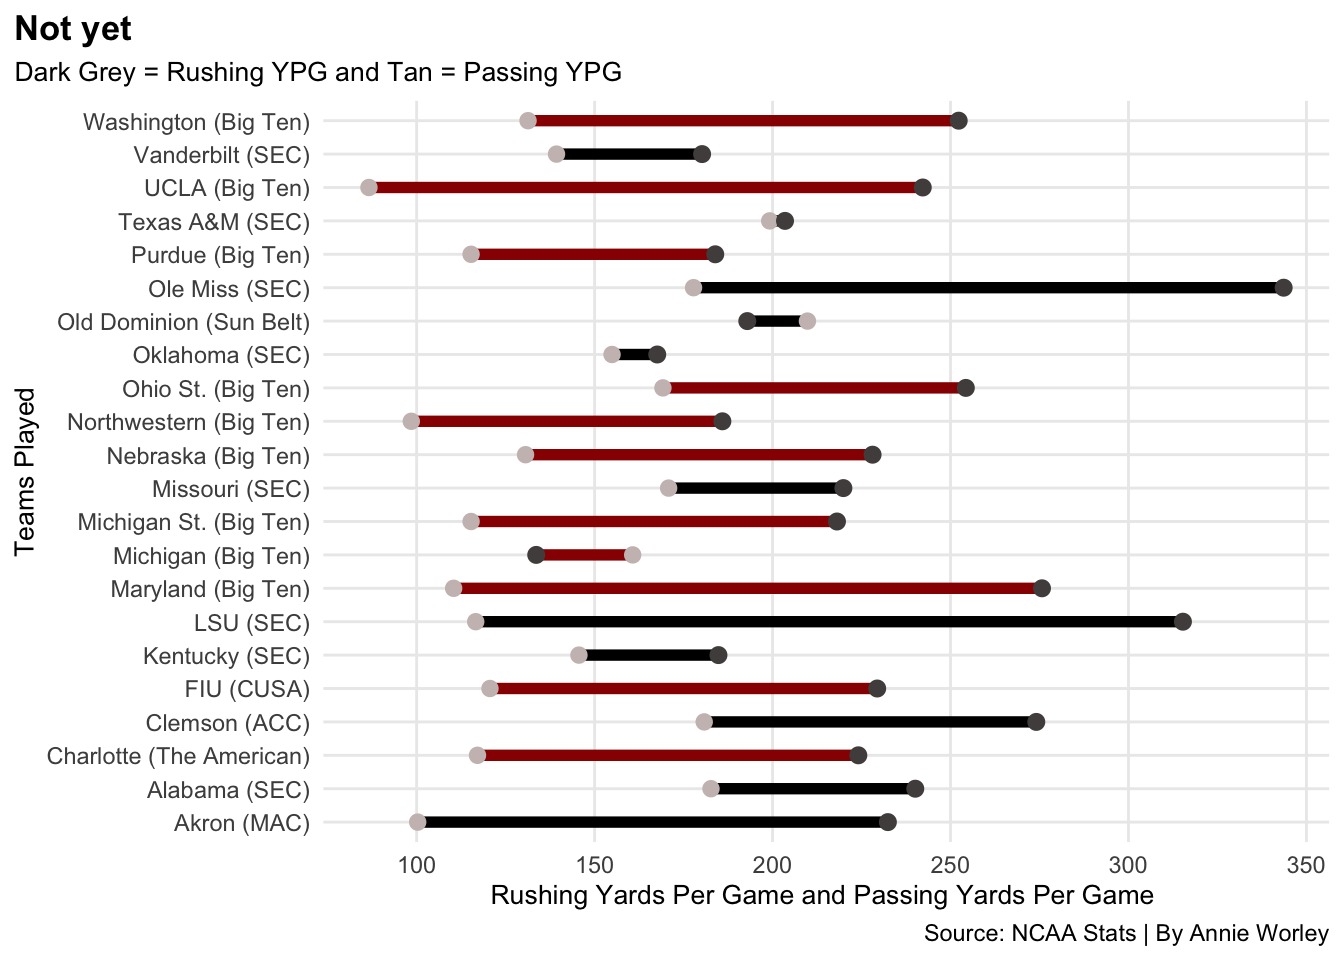
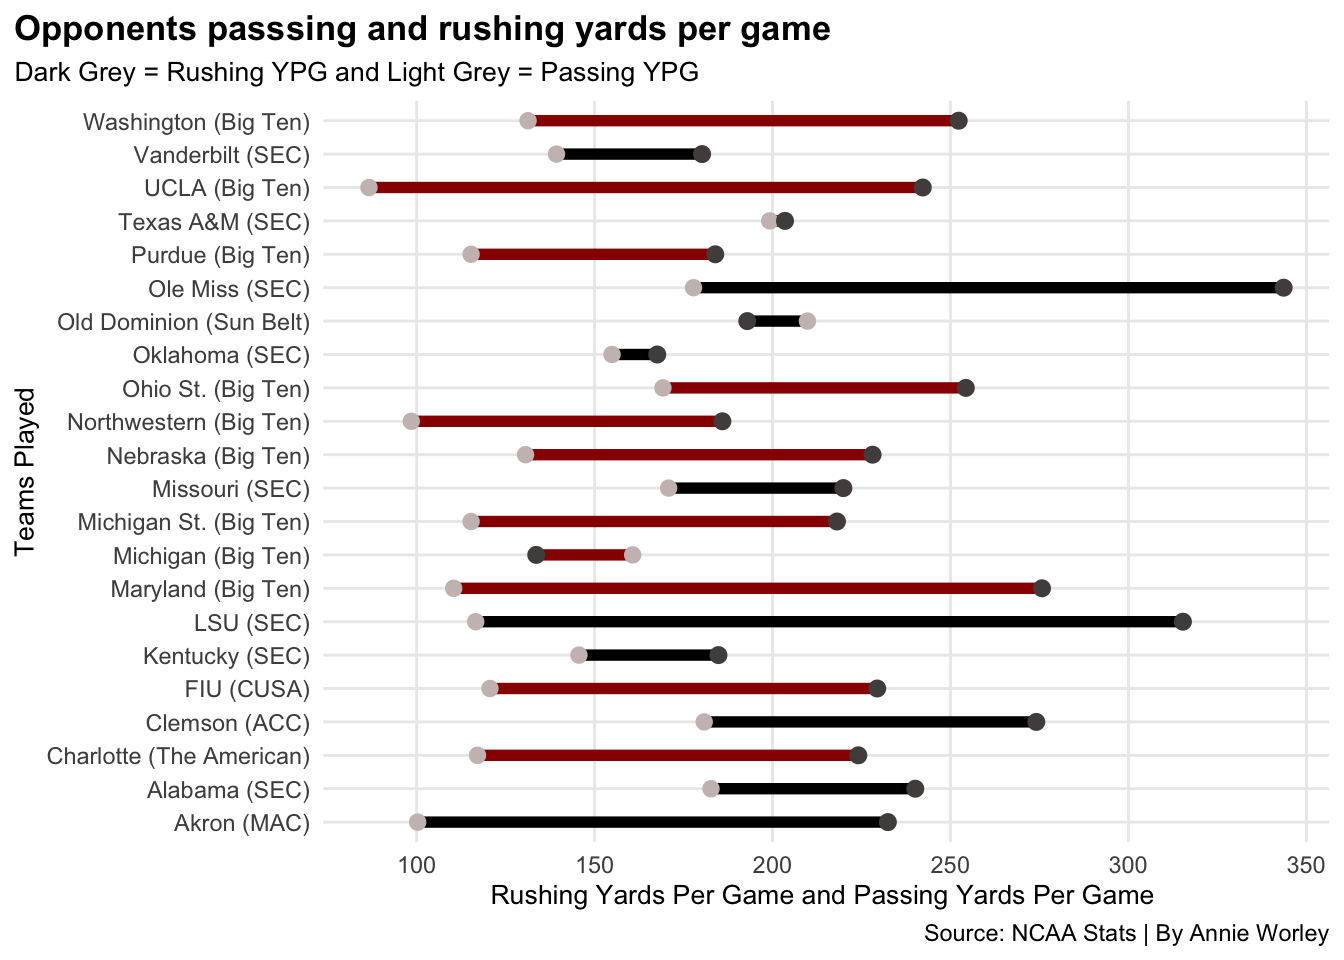
edits

Changed region(s): [[0.0, 0.0, 0.625, 0.0938]]

diff --git a/posts/college-football-playoffs-2024/index.html b/posts/college-football-playoffs-2024/index.html
@@ -193,7 +193,11 @@ pre > code.sourceCode > span > a:first-child::before { text-decoration: underlin
 
 
 
-<p>Do teams in the playoff contention deserve to be considered over other teams? Does a team like South Carolina deserve to be in the playoffs over Indiana. Looking at their performance and teams they played.&nbsp;</p>
+<p>Do teams in the playoff contention deserve to be considered over other teams? Does a team like South Carolina deserve to be in the playoffs over Indiana.</p>
+<p>Does one team belong over the other looking into their performance and the quality of teams they played.&nbsp;</p>
+<p>The playoffs are expanded to 12 teams for the first time this season. At the same time there has been a lot of consolidation among the conferences and now the have the power 4 conferences, each consisting of many teams. This leads to many unbalanced schedules and difficulty to judge teams based off their records.</p>
+<p>This raises a question about the quality of teams wins and who really is better then everyone else.</p>
+<p>Question: Is there large difference between the defenses South Carolina faced being in the SEC and defenses Indiana faced being in the Big Ten, plus their non conference games?</p>
 <div class="cell" data-messasge="false">
 <details class="code-fold">
 <summary>Code</summary>
@@ -215,7 +219,7 @@ pre > code.sourceCode > span > a:first-child::before { text-decoration: underlin
 <span id="cb1-16"><a href="#cb1-16" aria-hidden="true" tabindex="-1"></a><span class="fu">labs</span>(</span>
 <span id="cb1-17"><a href="#cb1-17" aria-hidden="true" tabindex="-1"></a>    <span class="at">x=</span><span class="st">"Games Played"</span>, </span>
 <span id="cb1-18"><a href="#cb1-18" aria-hidden="true" tabindex="-1"></a>    <span class="at">y=</span><span class="st">"Average Yards Given Up By Defense"</span>, </span>
-<span id="cb1-19"><a href="#cb1-19" aria-hidden="true" tabindex="-1"></a>    <span class="at">title=</span><span class="st">"Quality of the defenses on each team's schedules"</span>, </span>
+<span id="cb1-19"><a href="#cb1-19" aria-hidden="true" tabindex="-1"></a>    <span class="at">title=</span><span class="st">"Comparsion of average yards given up by each teams opponent"</span>, </span>
 <span id="cb1-20"><a href="#cb1-20" aria-hidden="true" tabindex="-1"></a>    <span class="at">subtitle=</span><span class="st">"Bigger spread in the defensive yards per game bewtween the Big Ten and SEC"</span>, </span>
 <span id="cb1-21"><a href="#cb1-21" aria-hidden="true" tabindex="-1"></a>    <span class="at">caption=</span><span class="st">"Source: NCAA Stats | By Annie Worley"</span>) <span class="sc">+</span></span>
 <span id="cb1-22"><a href="#cb1-22" aria-hidden="true" tabindex="-1"></a>  <span class="fu">theme</span>(</span>
@@ -233,6 +237,9 @@ pre > code.sourceCode > span > a:first-child::before { text-decoration: underlin
 </div>
 </div>
 </div>
+<p>Both teams faced some strong defenses. Indiana has a bigger spread between the best and worse defenses they faced based on the average yards they gave up.</p>
+<p>South Carolina’s graph shows there is a consistent group of teams who had stronger defenses than the teams Indiana faced.</p>
+<p>3rd down conversions are an important aspect of the offensive side of the ball. Its critical to keep drives alive and help with added scoring chances.</p>
 <div class="cell" data-messasge="false">
 <details class="code-fold">
 <summary>Code</summary>
@@ -240,7 +247,7 @@ pre > code.sourceCode > span > a:first-child::before { text-decoration: underlin
 <span id="cb2-2"><a href="#cb2-2" aria-hidden="true" tabindex="-1"></a><span class="co">#| messasge: FALSE</span></span></code><button title="Copy to Clipboard" class="code-copy-button"><i class="bi"></i></button></pre></div>
 </details>
 </div>
-<p>Text</p>
+<p>Question: How do the opponents South Carolina and Indiana faced compare in terms of 3rd down conversions?</p>
 <div class="cell" data-messasge="false">
 <details class="code-fold">
 <summary>Code</summary>
@@ -258,8 +265,8 @@ pre > code.sourceCode > span > a:first-child::before { text-decoration: underlin
 <span id="cb3-12"><a href="#cb3-12" aria-hidden="true" tabindex="-1"></a><span class="fu">labs</span>(</span>
 <span id="cb3-13"><a href="#cb3-13" aria-hidden="true" tabindex="-1"></a>    <span class="at">x=</span><span class="st">"Games Played"</span>, </span>
 <span id="cb3-14"><a href="#cb3-14" aria-hidden="true" tabindex="-1"></a>    <span class="at">y=</span><span class="st">"3rd down completion percentage"</span>, </span>
-<span id="cb3-15"><a href="#cb3-15" aria-hidden="true" tabindex="-1"></a>    <span class="at">title=</span><span class="st">"Not yet"</span>, </span>
-<span id="cb3-16"><a href="#cb3-16" aria-hidden="true" tabindex="-1"></a>    <span class="at">subtitle=</span><span class="st">"South Carolina in black and Indiana in Crimson"</span>, </span>
+<span id="cb3-15"><a href="#cb3-15" aria-hidden="true" tabindex="-1"></a>    <span class="at">title=</span><span class="st">"South Carolina consistently faced better 3rd down offenses"</span>, </span>
+<span id="cb3-16"><a href="#cb3-16" aria-hidden="true" tabindex="-1"></a>    <span class="at">subtitle=</span><span class="st">"South Carolina in black and Indiana in crimson"</span>, </span>
 <span id="cb3-17"><a href="#cb3-17" aria-hidden="true" tabindex="-1"></a>    <span class="at">caption=</span><span class="st">"Source: NCAA Stats | By Annie Worley"</span>) <span class="sc">+</span></span>
 <span id="cb3-18"><a href="#cb3-18" aria-hidden="true" tabindex="-1"></a>  <span class="fu">theme</span>(</span>
 <span id="cb3-19"><a href="#cb3-19" aria-hidden="true" tabindex="-1"></a>    <span class="at">plot.title =</span> <span class="fu">element_text</span>(<span class="at">size =</span> <span class="dv">13</span>, <span class="at">face =</span> <span class="st">"bold"</span>, <span class="at">color =</span> <span class="st">"black"</span>), </span>
@@ -276,7 +283,8 @@ pre > code.sourceCode > span > a:first-child::before { text-decoration: underlin
 </div>
 </div>
 </div>
-<p>Text</p>
+<p>Between the strongest and weakest opponents South Carolina faced, those offenses were better on 3rd down conversions then who Indiana played. Overall, all the teams South Carolina played were more proficient on 3rd down plays.</p>
+<p>Question: Did South Carolina’s or Indiana’s oppenents have better offenses?</p>
 <div class="cell" data-messasge="false">
 <details class="code-fold">
 <summary>Code</summary>
@@ -292,8 +300,8 @@ pre > code.sourceCode > span > a:first-child::before { text-decoration: underlin
 <span id="cb4-10"><a href="#cb4-10" aria-hidden="true" tabindex="-1"></a><span class="fu">labs</span>(</span>
 <span id="cb4-11"><a href="#cb4-11" aria-hidden="true" tabindex="-1"></a>    <span class="at">x=</span><span class="st">"Rushing Yards Per Game and Passing Yards Per Game "</span>, </span>
 <span id="cb4-12"><a href="#cb4-12" aria-hidden="true" tabindex="-1"></a>    <span class="at">y=</span><span class="st">"Teams Played"</span>, </span>
-<span id="cb4-13"><a href="#cb4-13" aria-hidden="true" tabindex="-1"></a>    <span class="at">title=</span><span class="st">"Not yet"</span>, </span>
-<span id="cb4-14"><a href="#cb4-14" aria-hidden="true" tabindex="-1"></a>    <span class="at">subtitle=</span><span class="st">"Dark Grey = Rushing YPG and Tan = Passing YPG"</span>,</span>
+<span id="cb4-13"><a href="#cb4-13" aria-hidden="true" tabindex="-1"></a>    <span class="at">title=</span><span class="st">"Opponents passsing and rushing yards per game"</span>, </span>
+<span id="cb4-14"><a href="#cb4-14" aria-hidden="true" tabindex="-1"></a>    <span class="at">subtitle=</span><span class="st">"Dark Grey = Rushing YPG and Light Grey = Passing YPG"</span>,</span>
 <span id="cb4-15"><a href="#cb4-15" aria-hidden="true" tabindex="-1"></a>    <span class="at">caption=</span><span class="st">"Source: NCAA Stats | By Annie Worley"</span>) <span class="sc">+</span></span>
 <span id="cb4-16"><a href="#cb4-16" aria-hidden="true" tabindex="-1"></a>  <span class="fu">theme</span>(</span>
 <span id="cb4-17"><a href="#cb4-17" aria-hidden="true" tabindex="-1"></a>    <span class="at">plot.title =</span> <span class="fu">element_text</span>(<span class="at">size =</span> <span class="dv">13</span>, <span class="at">face =</span> <span class="st">"bold"</span>, <span class="at">color =</span> <span class="st">"black"</span>), </span>
@@ -310,7 +318,9 @@ pre > code.sourceCode > span > a:first-child::before { text-decoration: underlin
 </div>
 </div>
 </div>
-<p>Text</p>
+<p>The opponents South Carolina faced averaged more rushing yards and passing yards combined then the opponents Indiana played.</p>
+<p>Both schools each faced one FCS division opponent and 11 FBS teams. Their divisional mix was similar. Indiana made it into the playoffs based on their better overall record. Indiana’s record was 10 - 1 and South Carolina’s was 9 - 3.</p>
+<p>Based on the quality of competition South Carolina faced you could argue they are a better team than Indiana, although their record isn’t as good. In general, both offenses and defenses South Carolina faced performed better then the opponents Indiana played.</p>
 <p>Comparison between total defense between the teams using a bar chart</p>
 <p>Dumbbell chart to show the passing and rushing offense between the teams</p>
 <p>Line chart to represent 3rd down conversion pct between the teams</p>

diff --git a/index.html b/index.html
@@ -210,7 +210,7 @@ window.Quarto = {
 
 <div class="quarto-listing quarto-listing-container-default" id="listing-listing">
 <div class="list quarto-listing-default">
-<div class="quarto-post image-right" data-index="0" data-categories="Rm9vdGJhbGw=" data-listing-date-sort="1733724000000" data-listing-file-modified-sort="1733790312983" data-listing-date-modified-sort="NaN" data-listing-reading-time-sort="3" data-listing-word-count-sort="514">
+<div class="quarto-post image-right" data-index="0" data-categories="Rm9vdGJhbGw=" data-listing-date-sort="1733724000000" data-listing-file-modified-sort="1733799782710" data-listing-date-modified-sort="NaN" data-listing-reading-time-sort="5" data-listing-word-count-sort="863">
 <div class="thumbnail">
 <p><a href="./posts/college-football-playoffs-2024/index.html" class="no-external"></a></p><a href="./posts/college-football-playoffs-2024/index.html" class="no-external">
 <p><img loading="lazy" src="./posts/college-football-playoffs-2024/totaldefense.jpeg" class="thumbnail-image"></p>
@@ -229,7 +229,7 @@ Football
 </div>
 </div>
 <div class="listing-description">
-<a href="./posts/college-football-playoffs-2024/index.html" class="no-external">Do teams in the playoff contention deserve to be considered over other teams? Does a team like South Carolina deserve to be in the playoffs over Indiana. Looking at their…</a>
+<a href="./posts/college-football-playoffs-2024/index.html" class="no-external">Do teams in the playoff contention deserve to be considered over other teams? Does a team like South Carolina deserve to be in the playoffs over Indiana.</a>
 </div>
 </div>
 <div class="metadata">
